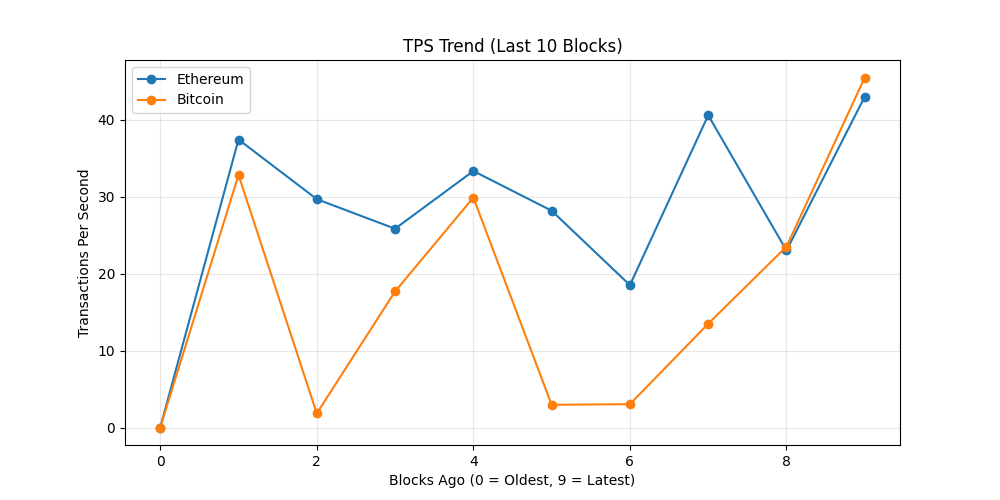
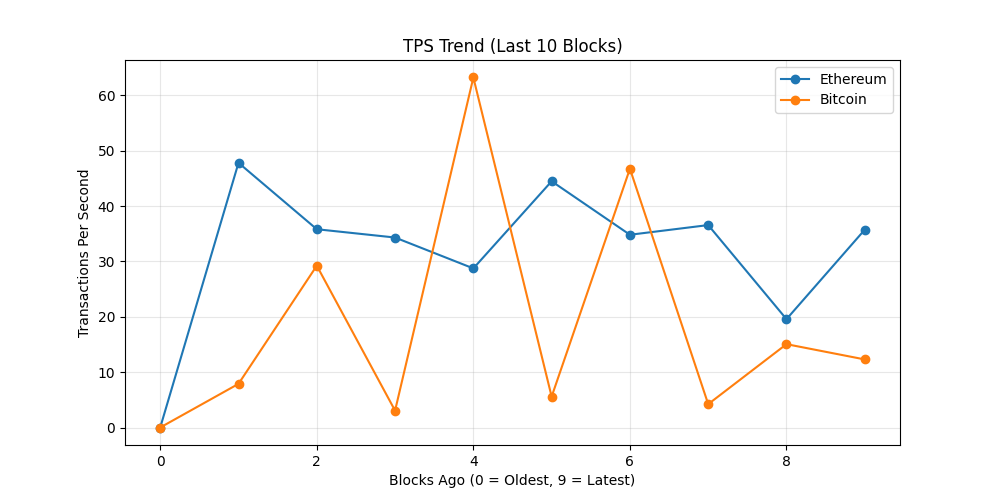
chore: update on-chain dashboard

diff --git a/README.md b/README.md
@@ -19,7 +19,7 @@ The README itself acts as the dashboard and is regenerated automatically on a 6 
 demonstrating a production-style, infrastructure-focused observability workflow rather
 than a traditional UI-driven approach.
 
-_Last updated: 2026-03-28 07:13 UTC_
+_Last updated: 2026-03-28 13:18 UTC_
 
 ## API Usage (GetBlock.io)
 - Calls used: **24**
@@ -27,8 +27,8 @@ _Last updated: 2026-03-28 07:13 UTC_
 ## Network Metrics
 | Chain | Block Height | TX Count | TPS (10 blk avg) | Block Util | Avg Fee |
 |------|-------------|----------|------------------|------------|---------|
-| Ethereum | 24754497 | 516 | 43.0 | 57.02% | 0.0 Gwei |
-| Bitcoin | 942593 | 7276 | 45.48 | 99.79% | N/A |
+| Ethereum | 24756317 | 429 | 35.75 | 63.99% | 0.1 Gwei |
+| Bitcoin | 942641 | 4735 | 12.3 | 99.89% | N/A |
 
 ## Visuals
 ### Transactions Trend
@@ -43,7 +43,9 @@ _Last updated: 2026-03-28 07:13 UTC_
 ## Whale Alerts (latest block)
 - Transaction hashes are truncated for readability.
 - Full hashes are available in `dashboards/metrics.json`
-- Bitcoin | 902.15 BTC | `48374a8727c5…`
+- Bitcoin | 164.56 BTC | `14c685ac52de…`
+- Bitcoin | 164.56 BTC | `0d5b82b45d0b…`
+- Bitcoin | 4067.04 BTC | `598a5b2255ef…`
 
 ## Run locally
 
